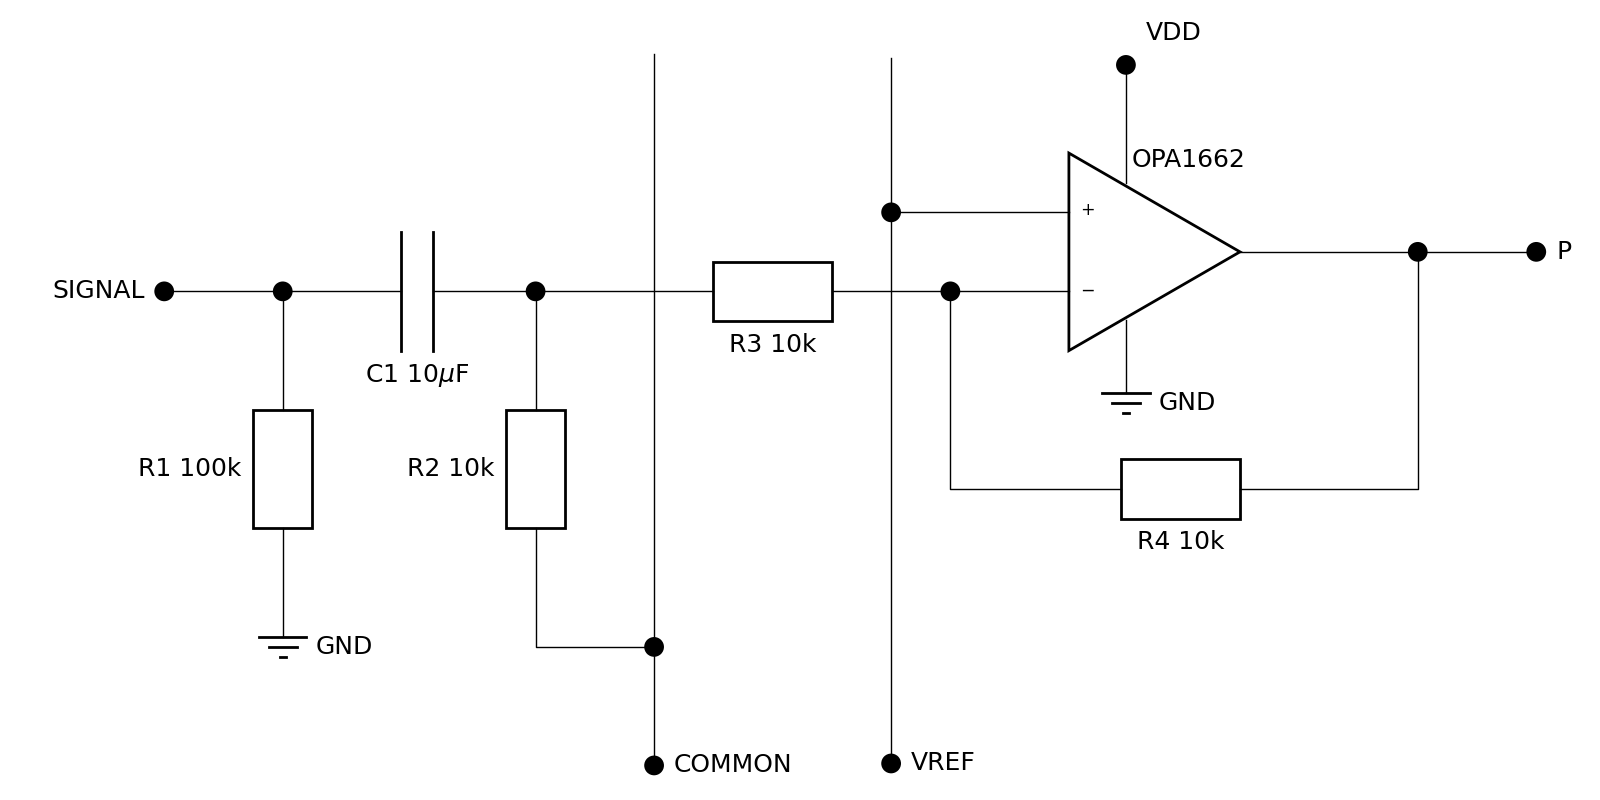
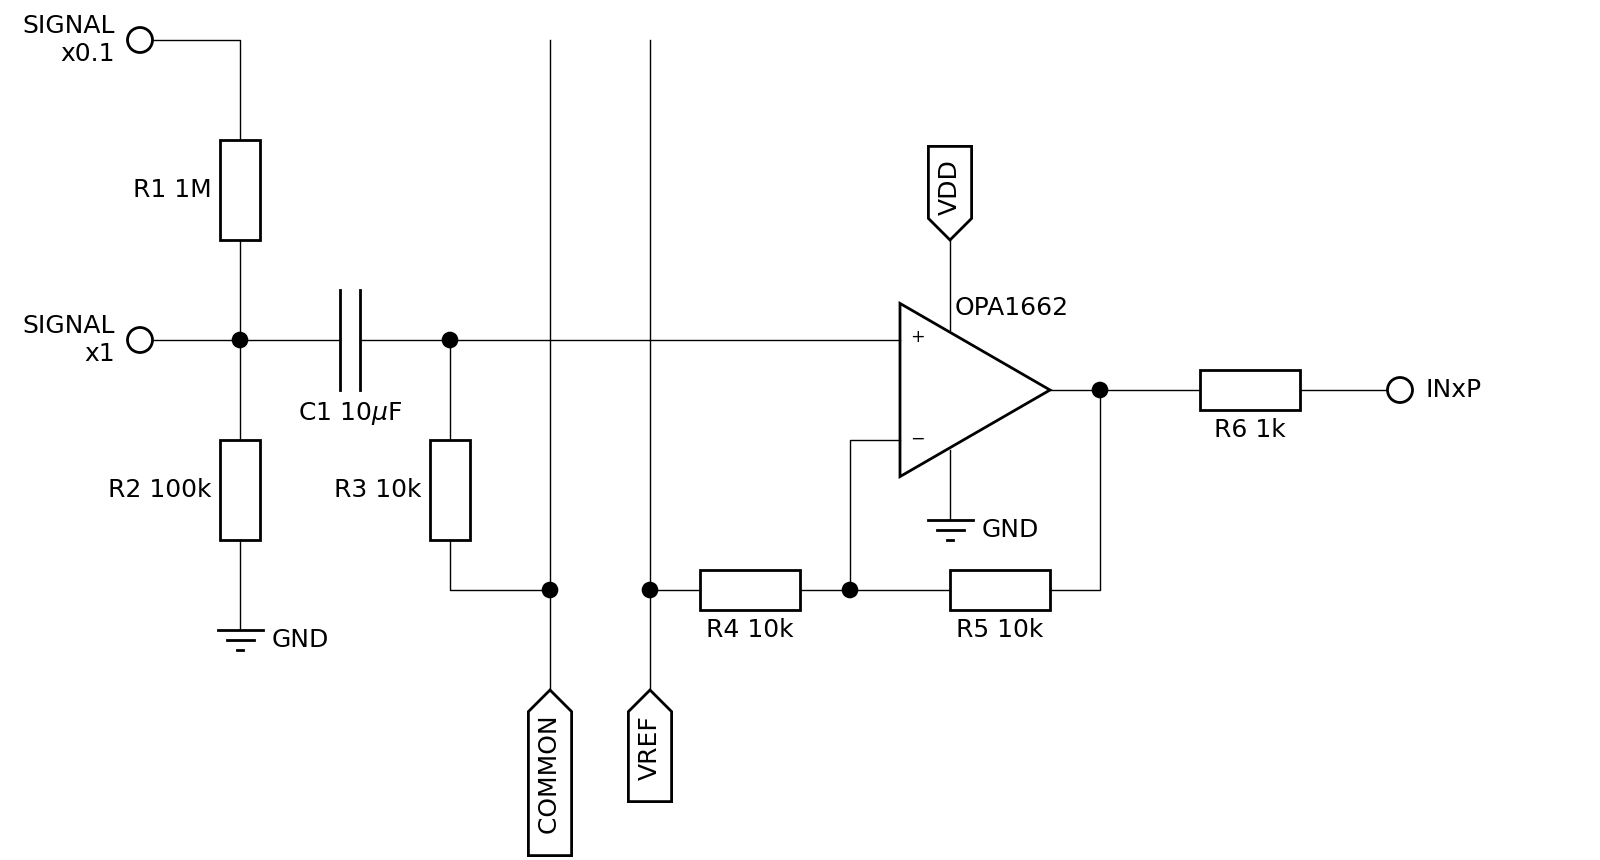
[R5.0] updated circuits

diff --git a/R5.0/preampinv.py b/R5.0/preampinv.py
@@ -4,49 +4,57 @@ from matplotlib.patches import Rectangle
 
 plt.rcParams['font.size'] = 18
 
-fig, ax = plt.subplots(figsize=(16, 8))
+fig, ax = plt.subplots(figsize=(16, 8.6))
 fig.subplots_adjust(nomargins=True)
 ax.show_spines('')
+#ax.set_xticks_off()
+#ax.set_yticks_off()
 
-pn, pp, po, pg, pw = ax.opamp_l((8, 5), 'OPA1662')
-gnd1 = ax.ground(pg.down(0.7), 'GND')
+ax.set_xlim(-1, 15)
+ax.set_ylim(-0.7, 7.9)
+ax.set_aspect('equal')
+
+pn, pp, po, pg, pw = ax.opamp_l((8.5, 4), 'OPA1662')
+gnd1 = ax.ground(pg.down(0.8), 'GND')
 ax.connect((pg, gnd1))
-npwr = ax.node(pw.up(1), 'VDD')
+npwr = ax.bus(pw.up(0.9), 'VDD', align='top')
 ax.connect((pw, npwr))
 
-ng1 = ax.node(pn.left(1))
-r1l, r1r = ax.resistance_h(ng1.left(1.5), 'R3 10k', align='bottom')
-n4 = ax.node(r1l.left(1.5))
-c1l, c1r = ax.capacitance_h(n4.left(1), 'C1 10$\\mu$F', align='bottom')
-n1 = ax.node(c1l.left(1))
-nn = ax.node(n1.left(1), 'SIGNAL', align='left')
-ax.connect((nn, n1, c1l, None, c1r, r1l, None, r1r, ng1, pn))
+ng1 = ax.node(pn.left(0.5).down(1.5))
+r4l, r4r = ax.resistance_h(ng1.left(1), 'R4 10k', align='bottom')
+ngr = ax.node(r4l.left(0.5))
+ax.connect((pn, ng1, r4r, None, r4l, ngr, ngr.up(5.5)))
+nr = ax.bus(ngr.down(1), 'VREF', align='south')
+ax.connect((ngr, nr))
 
-r4b, r4t = ax.resistance_v(n4.down(1.5), 'R2 10k', align='left')
-n5 = ax.node(r4b.down(1).right(1))
-ax.connect((n4, r4t, None, r4b, n5))
-n6 = ax.node(n5.down(1), 'COMMON', align='right')
-ax.connect((n5.up(5), n5.down(1)))
+ncc = ax.node(pp.left(4.5))
+c1l, c1r = ax.capacitance_h(ncc.left(1), 'C1 10$\\mu$F', align='bottom')
+nsc = ax.node(c1l.left(1))
+ns1 = ax.pin(nsc.left(1), 'SIGNAL\nx1', align='left')
+ax.connect((ns1, nsc, c1l, None, c1r, ncc, pp))
 
-np = ax.node(pp.left(1.5))
-ax.connect((np.up(1.3), np,  pp))
-n7 = ax.node(np.down(4.65), 'VREF', align='right')
-ax.connect((np, n7))
+r1b, r1t = ax.resistance_v(nsc.up(1.5), 'R1 1M', align='left')
+ns2 = ax.pin(r1t.up(1).left(1), 'SIGNAL\nx0.1', align='left')
+ax.connect((nsc, r1b, None, r1t, ns2))
 
-r2b, r2t = ax.resistance_v(n1.down(1.5), 'R1 100k', align='left')
+r2b, r2t = ax.resistance_v(nsc.down(1.5), 'R2 100k', align='left')
 gnd2 = ax.ground(r2b.down(1), 'GND')
-ax.connect((n1, r2t, None, r2b, gnd2))
+ax.connect((nsc, r2t, None, r2b, gnd2))
 
-ng2 = ax.node(po.right(1.5))
-no = ax.node(ng2.right(1), 'P', 'right')
-ax.connect((po, ng2, no))
+r3b, r3t = ax.resistance_v(ncc.down(1.5), 'R3 10k', align='left')
+nrc = ax.node(r3b.down(0.5).right(1))
+nc = ax.bus(nrc.down(1), ' COMMON', align='south')
+ax.connect((ncc, r3t, None, r3b, nrc, nc))
+ax.connect((nrc.up(5.5), nrc))
 
-r5l, r5r = ax.resistance_h(po.left(0.5).down(2), 'R4 10k', 'below')
+ng2 = ax.node(po.right(0.5))
+r6l, r6r = ax.resistance_h(ng2.right(1.5), 'R6 1k', 'below')
+no = ax.pin(r6r.right(1), 'INxP', 'right')
+ax.connect((po, ng2, r6l, None, r6r, no))
+
+r5l, r5r = ax.resistance_h(ng1.right(1.5), 'R5 10k', 'below')
 ax.connect((ng1, r5l, None, r5r, ng2))
 
-ax.set_xlim(-1.5, 12)
-ax.set_ylim(0.5, 7)
-ax.set_aspect('equal')
 fig.savefig()
 plt.show()
 

diff --git a/R5.0/refampinv.py b/R5.0/refampinv.py
@@ -4,34 +4,43 @@ from matplotlib.patches import Rectangle
 
 plt.rcParams['font.size'] = 18
 
-fig, ax = plt.subplots(figsize=(16, 6))
+fig, ax = plt.subplots(figsize=(16, 7))
 fig.subplots_adjust(nomargins=True)
 ax.show_spines('')
+#ax.set_xticks_off()
+#ax.set_yticks_off()
 
-pn, pp, po, pg, pw = ax.opamp_l((8, 5), 'OPA1662')
-gnd1 = ax.ground(pg.down(0.7), 'GND')
+ax.set_xlim(-1, 15)
+ax.set_ylim(1.5, 8.5)
+ax.set_aspect('equal')
+
+pn, pp, po, pg, pw = ax.opamp_l((8.5, 5), 'OPA1662')
+gnd1 = ax.ground(pg.down(0.8), 'GND')
 ax.connect((pg, gnd1))
-npwr = ax.node(pw.up(1), 'VDD')
+npwr = ax.bus(pw.up(0.9), 'VDD', align='top')
 ax.connect((pw, npwr))
 
-ng1 = ax.node(pn.left(1))
-r1l, r1r = ax.resistance_h(ng1.left(1.5), 'R3 10k', align='bottom')
-nn = ax.node(r1l.left(0.5).up(1.95), 'COMMON', align='right')
-ax.connect((nn, r1l, None, r1r, ng1, pn))
+ng1 = ax.node(pn.left(0.5).down(1.5))
+r4l, r4r = ax.resistance_h(ng1.left(1), 'R4 10k', align='bottom')
+nr = ax.bus(r4l.left(0.5).up(3.5), 'VREF', align='top')
+ax.connect((pn, ng1, r4r, None, r4l, r4l.left(0.5), nr))
 
-np = ax.node(pp.left(1.5).up(1.3), 'VREF', align='right')
-ax.connect((np,  pp))
+nc = ax.bus(pp.left(3.5).up(1), 'COMMON ', align='top')
+ax.connect((nc,  pp))
 
-ng2 = ax.node(po.right(1.5))
-no = ax.node(ng2.right(1), 'M', 'right')
-ax.connect((po, ng2, no))
+ng2 = ax.node(po.right(0.5))
+r6l, r6r = ax.resistance_h(ng2.right(1.5), 'R6 1k', 'below')
+ng3 = ax.node(r6r.right(1))
+no = ax.pin(ng3.right(1), 'INxM', 'right')
+ax.connect((po, ng2, r6l, None, r6r, ng3, no))
 
-r5l, r5r = ax.resistance_h(po.left(0.5).down(2), 'R4 10k', 'below')
+r5l, r5r = ax.resistance_h(ng1.right(1.5), 'R5 10k', 'below')
 ax.connect((ng1, r5l, None, r5r, ng2))
 
-ax.set_xlim(-1.5, 12)
-ax.set_ylim(2.5, 7)
-ax.set_aspect('equal')
+r7b, r7t = ax.resistance_v(ng3.down(1.5), 'R7 110k', 'right')
+gnd2 = ax.ground(r7b.down(1), 'GND')
+ax.connect((ng3, r7t, None, r7b, gnd2))
+
 fig.savefig()
 plt.show()
 

diff --git a/R5.0/README.md b/R5.0/README.md
@@ -97,13 +97,14 @@ For programming instructions see page 109 of the [TI TLV320ADC5140 data sheet](t
 
 ![preampinv](images/preampinv.png)
 
-- R1=100k for referencing the floating signal.
-- C1=10uF and R3=10k for a <5Hz high-pass filter.
-- R3=10k and R4=10k for a 1x gain (gain=R4/R3).
+- R1=1M for a voltage divider attenuating strong signals by a factor of 10.
+- R2=100k for referencing the floating signal.
+- C1=10uF decoupling capacitor
+- R4=10k and R5=10k for a 2x gain (gain=1+R5/R4).
 - no low-pass filter, this is handled by the TLV chip.
-- each signal is amplified relative to VREF from the TLV chip.
+- each signal is amplified relative to VREF.
 - the COMMON reference measures the average of all the signals.
-
+- the TLV chip amplifies the pre-amplified signals versus the preamplified COMMON reference.
 
 ### Common-amplifier
 
